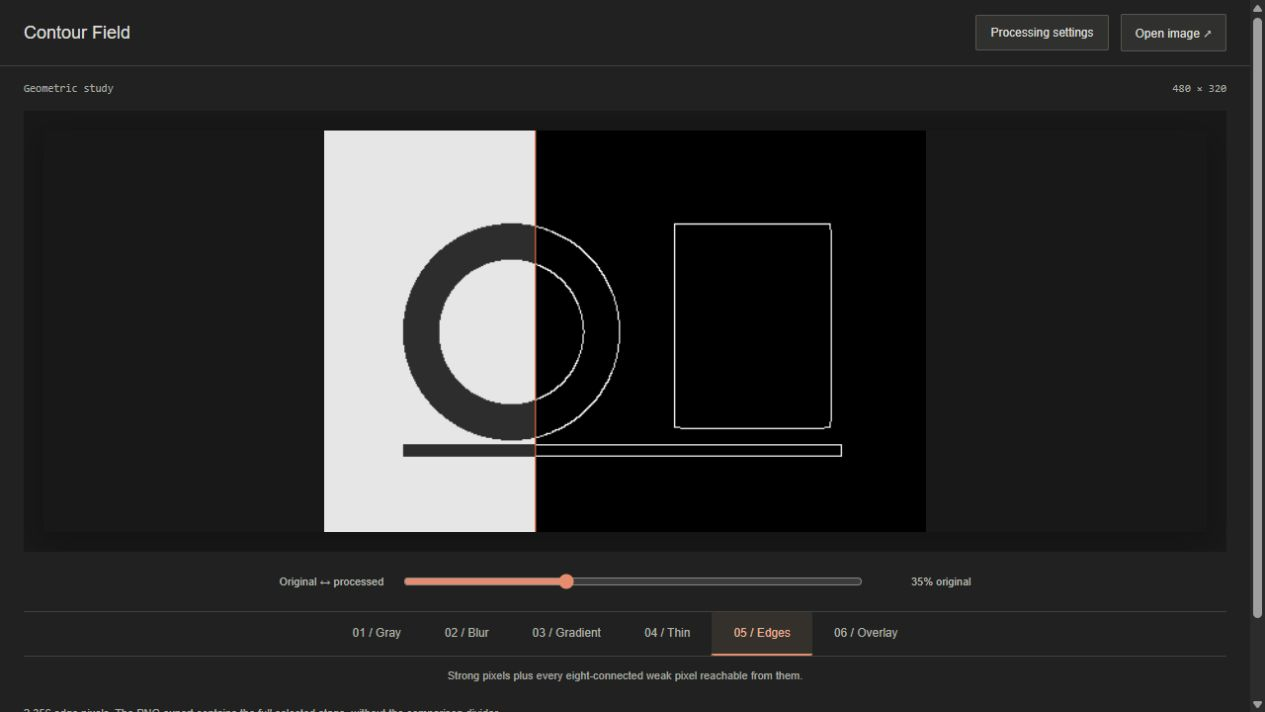
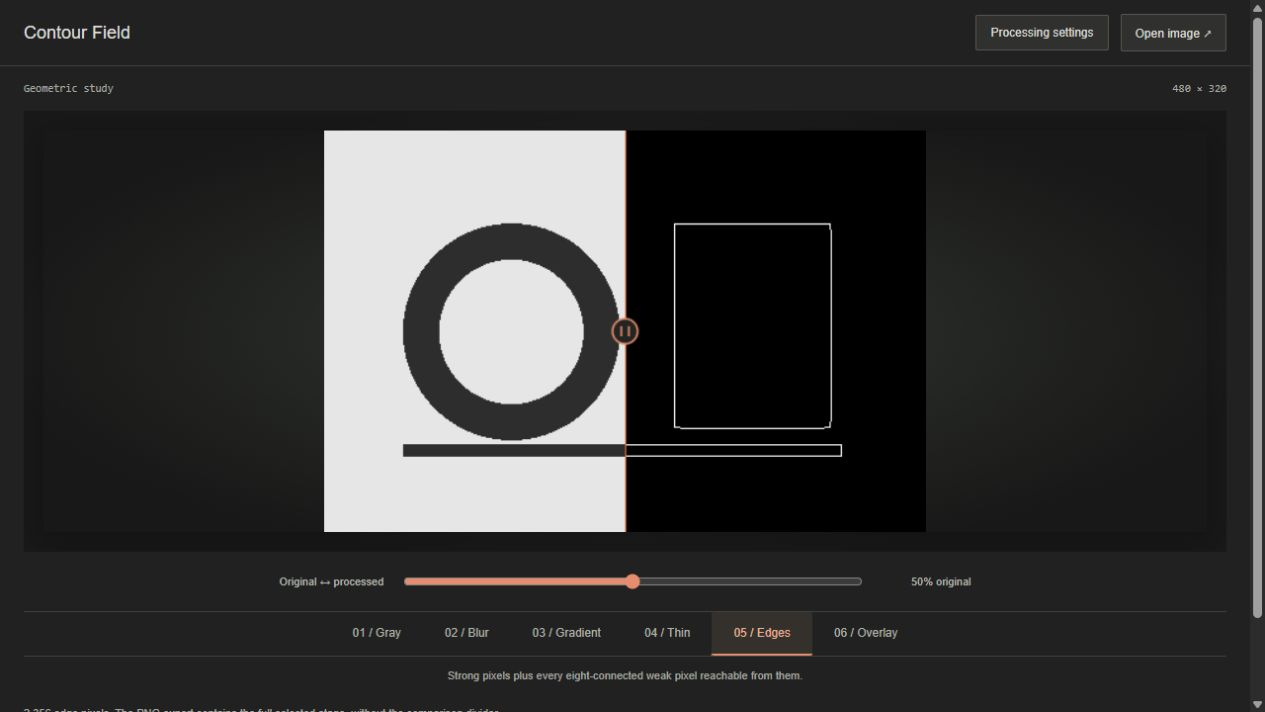
Make image comparisons directly draggable with cached stage previews

Changed region(s): [[0.4008, 0.1854, 0.5241, 0.7725], [0.4316, 0.8034, 0.5241, 0.8343]]

diff --git a/app.js b/app.js
@@ -20,7 +20,8 @@ let source = fixture(),
   stage = 'overlay',
   worker = null,
   revision = 0,
-  elapsed = 0;
+  elapsed = 0,
+  previewCache = null;
 const original = document.createElement('canvas'),
   processed = document.createElement('canvas');
 function status(text) {
@@ -73,15 +74,18 @@ function draw() {
   const fraction = Number($('wipe').value) / 100;
   $('wipe-value').textContent = `${Math.round(fraction * 100)}% original`;
   if (result) {
-    processed.width = source.width;
-    processed.height = source.height;
-    processed
-      .getContext('2d')
-      .putImageData(
-        new ImageData(displayRGBA(result, stage, source.rgba), source.width, source.height),
-        0,
-        0,
-      );
+    if (!previewCache || previewCache.result !== result || previewCache.stage !== stage) {
+      processed.width = source.width;
+      processed.height = source.height;
+      processed
+        .getContext('2d')
+        .putImageData(
+          new ImageData(displayRGBA(result, stage, source.rgba), source.width, source.height),
+          0,
+          0,
+        );
+      previewCache = { result, stage };
+    }
     ctx.save();
     ctx.beginPath();
     ctx.rect(source.width * fraction, 0, source.width * (1 - fraction), source.height);
@@ -90,7 +94,21 @@ function draw() {
     ctx.restore();
     if (fraction > 0 && fraction < 1) {
       ctx.fillStyle = '#ee6d3e';
-      ctx.fillRect(Math.floor(source.width * fraction), 0, 1, source.height);
+      const split = source.width * fraction;
+      ctx.fillRect(Math.floor(split), 0, 1, source.height);
+      ctx.beginPath();
+      ctx.arc(split, source.height / 2, 10, 0, Math.PI * 2);
+      ctx.fillStyle = '#242422';
+      ctx.fill();
+      ctx.strokeStyle = '#ee906d';
+      ctx.lineWidth = 1.5;
+      ctx.stroke();
+      ctx.beginPath();
+      ctx.moveTo(split - 3, source.height / 2 - 4);
+      ctx.lineTo(split - 3, source.height / 2 + 4);
+      ctx.moveTo(split + 3, source.height / 2 - 4);
+      ctx.lineTo(split + 3, source.height / 2 + 4);
+      ctx.stroke();
     }
   }
   $('description').textContent = result
@@ -286,3 +304,40 @@ $('settings-open').addEventListener('click', () => $('settings').showModal());
 $('settings-close').addEventListener('click', () => $('settings').close());
 syncSource();
 run();
+
+let draggingComparison = false;
+function moveComparison(event) {
+  if (!result) return;
+  const rect = $('view').getBoundingClientRect(),
+    fit = Math.min(rect.width / source.width, rect.height / source.height),
+    width = source.width * fit,
+    left = rect.left + (rect.width - width) / 2;
+  $('wipe').value = Math.round(Math.max(0, Math.min(100, ((event.clientX - left) / width) * 100)));
+  draw();
+}
+$('view').addEventListener('pointerdown', (event) => {
+  if (!result || event.button !== 0) return;
+  draggingComparison = true;
+  $('view').setPointerCapture(event.pointerId);
+  moveComparison(event);
+});
+$('view').addEventListener('pointermove', (event) => {
+  if (draggingComparison) moveComparison(event);
+});
+for (const type of ['pointerup', 'pointercancel', 'lostpointercapture'])
+  $('view').addEventListener(type, () => {
+    draggingComparison = false;
+  });
+$('view').addEventListener('keydown', (event) => {
+  if (!result) return;
+  const key = event.key;
+  if (!['ArrowLeft', 'ArrowRight', 'Home', 'End'].includes(key)) return;
+  event.preventDefault();
+  $('wipe').value =
+    key === 'Home'
+      ? 0
+      : key === 'End'
+        ? 100
+        : Math.max(0, Math.min(100, Number($('wipe').value) + (key === 'ArrowLeft' ? -1 : 1)));
+  draw();
+});

diff --git a/index.html b/index.html
@@ -21,7 +21,11 @@
             <span id="image-name">Geometric study</span><span id="dimensions"></span>
           </div>
           <div class="canvas-wrap">
-            <canvas id="view" aria-label="Image comparison preview"></canvas>
+            <canvas
+              id="view"
+              tabindex="0"
+              aria-label="Image comparison preview. Drag to move the divider; left and right arrows adjust by one percent, Home shows processed, End shows original."
+            ></canvas>
           </div>
           <div class="compare">
             <label for="wipe">Original ↔ processed</label

diff --git a/style.css b/style.css
@@ -339,3 +339,14 @@ dd {
     }
   }
 }
+#view {
+  cursor: ew-resize;
+  touch-action: pan-y;
+}
+#view:focus-visible {
+  outline: 2px solid #ee906d;
+  outline-offset: 4px;
+}
+.canvas-wrap {
+  background: radial-gradient(ellipse at center, #343732, #171817 75%);
+}

diff --git a/README.md b/README.md
@@ -6,6 +6,8 @@ A local computer-vision workbench that makes a Canny-style edge pipeline inspect
 
 The image fills the main workspace. Select a processing stage below it, use the original/processed comparison slider, and open Processing settings for source fixtures, thresholds, measurements, and exports. Pixel inspection and the gradient histogram expand below the image.
 
+Drag directly across the image to move the comparison divider, or focus the image and use Left/Right for one-percent steps, Home for processed, and End for original. A small handle marks the divider. Processed stage pixels are cached while moving it; PNG exports still contain the full selected stage without the divider.
+
 ## Run
 
 Python 3.10+, no packages or build step:
